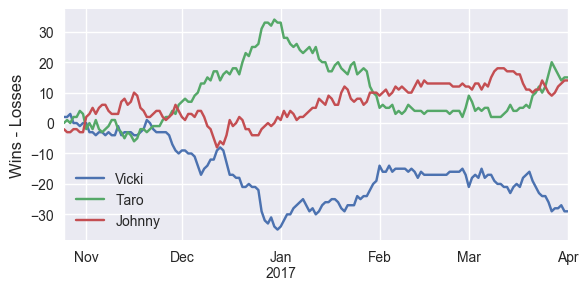
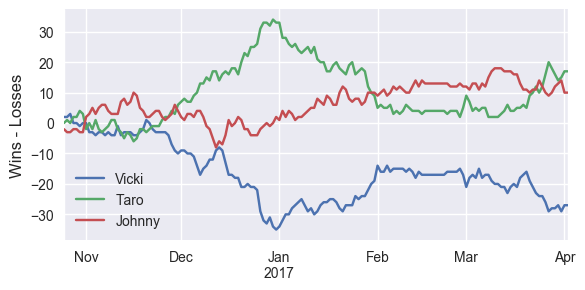
update 4/2

diff --git a/index.html b/index.html
@@ -35,7 +35,7 @@
 <a id="the-bet-is-on" class="anchor" href="#the-bet-is-on" aria-hidden="true"><span aria-hidden="true" class="octicon octicon-link"></span></a>The bet is on.</h1>
 
 <h1>
-<a id="current-winner-of-2016-17-season" class="anchor" href="#current-winner-of-2016-17-season" aria-hidden="true"><span aria-hidden="true" class="octicon octicon-link"></span></a>Current winner of 2016-17 Season (as of 4/1/2017):</h1>
+<a id="current-winner-of-2016-17-season" class="anchor" href="#current-winner-of-2016-17-season" aria-hidden="true"><span aria-hidden="true" class="octicon octicon-link"></span></a>Current winner of 2016-17 Season (as of 4/2/2017):</h1>
 
 <h2>
 <a id="none" class="anchor" href="#none" aria-hidden="true"><span aria-hidden="true" class="octicon octicon-link"></span></a><strong>Taro</strong>
@@ -45,22 +45,22 @@
 <a id="johnny" class="anchor" href="Johnny.html" aria-hidden="true"><span aria-hidden="true" class="octicon octicon-link"></span>Johnny</a></h2>
 
 <p>Wins: 385<br>
-Losses: 371<br>
-Remaining wins available: 55</p>
+Losses: 375<br>
+Remaining wins available: 51</p>
 
 <h2>
 <a id="taro" class="anchor" href="Taro.html" aria-hidden="true"><span aria-hidden="true" class="octicon octicon-link"></span>Taro</a></h2>
 
-<p>Wins: 386<br>
+<p>Wins: 388<br>
 Losses: 371<br>
-Remaining wins available: 58</p>
+Remaining wins available: 56</p>
 
 <h2>
 <a id="vicki" class="anchor" href="Vicki.html" aria-hidden="true"><span aria-hidden="true" class="octicon octicon-link"></span>Vicki</a></h2>
 
-<p>Wins: 364<br>
-Losses: 393<br>
-Remaining wins available: 54</p>
+<p>Wins: 367<br>
+Losses: 394<br>
+Remaining wins available: 51</p>
 
 <img src='pythoncode/win_percent.png' alt='Winning Percentage Over Time'>
 <h1>

diff --git a/Vicki.html b/Vicki.html
@@ -35,9 +35,9 @@
 
 <h2>Vicki</h2>
 
-<p>Wins: 364<br>
-Losses: 393<br>
-Remaining wins available: 54</p>
+<p>Wins: 367<br>
+Losses: 394<br>
+Remaining wins available: 51</p>
 
 <h2> Current teams </h2>
 <table border="1">
@@ -61,9 +61,9 @@ Remaining wins available: 54</p>
 </tr>
 <tr>
 <td>Trail Blazers</td>
-<td>37</td>
 <td>38</td>
-<td>7</td>
+<td>38</td>
+<td>6</td>
 </tr>
 <tr>
 <td>Cavaliers</td>
@@ -73,9 +73,9 @@ Remaining wins available: 54</p>
 </tr>
 <tr>
 <td>Bulls</td>
-<td>36</td>
+<td>37</td>
 <td>39</td>
-<td>7</td>
+<td>6</td>
 </tr>
 <tr>
 <td>76ers</td>
@@ -91,15 +91,15 @@ Remaining wins available: 54</p>
 </tr>
 <tr>
 <td>Clippers</td>
-<td>46</td>
+<td>47</td>
 <td>31</td>
-<td>5</td>
+<td>4</td>
 </tr>
 <tr>
 <td>Suns</td>
 <td>22</td>
-<td>54</td>
-<td>6</td>
+<td>55</td>
+<td>5</td>
 </tr>
 <tr>
 <td>Pacers</td>

diff --git a/Johnny.html b/Johnny.html
@@ -36,8 +36,8 @@
 <h2>Johnny</h2>
 
 <p>Wins: 385<br>
-Losses: 371<br>
-Remaining wins available: 55</p>
+Losses: 375<br>
+Remaining wins available: 51</p>
 
 <h2> Current teams </h2>
 <table border="1">
@@ -62,14 +62,14 @@ Remaining wins available: 55</p>
 <tr>
 <td>Timberwolves</td>
 <td>30</td>
-<td>44</td>
-<td>8</td>
+<td>45</td>
+<td>7</td>
 </tr>
 <tr>
 <td>Hawks</td>
 <td>39</td>
-<td>36</td>
-<td>7</td>
+<td>37</td>
+<td>6</td>
 </tr>
 <tr>
 <td>Celtics</td>
@@ -98,14 +98,14 @@ Remaining wins available: 55</p>
 <tr>
 <td>Lakers</td>
 <td>21</td>
-<td>54</td>
-<td>7</td>
+<td>55</td>
+<td>6</td>
 </tr>
 <tr>
 <td>Magic</td>
 <td>27</td>
-<td>49</td>
-<td>6</td>
+<td>50</td>
+<td>5</td>
 </tr>
 </table>
 

diff --git a/Taro.html b/Taro.html
@@ -35,9 +35,9 @@
 
 <h2>Taro</h2>
 
-<p>Wins: 386<br>
+<p>Wins: 388<br>
 Losses: 371<br>
-Remaining wins available: 58</p>
+Remaining wins available: 56</p>
 
 <h2> Current teams </h2>
 <table border="1">
@@ -55,9 +55,9 @@ Remaining wins available: 58</p>
 </tr>
 <tr>
 <td>Nets</td>
-<td>16</td>
+<td>17</td>
 <td>59</td>
-<td>7</td>
+<td>6</td>
 </tr>
 <tr>
 <td>Thunder</td>
@@ -97,9 +97,9 @@ Remaining wins available: 58</p>
 </tr>
 <tr>
 <td>Kings</td>
-<td>29</td>
+<td>30</td>
 <td>47</td>
-<td>6</td>
+<td>5</td>
 </tr>
 <tr>
 <td>Pelicans</td>
